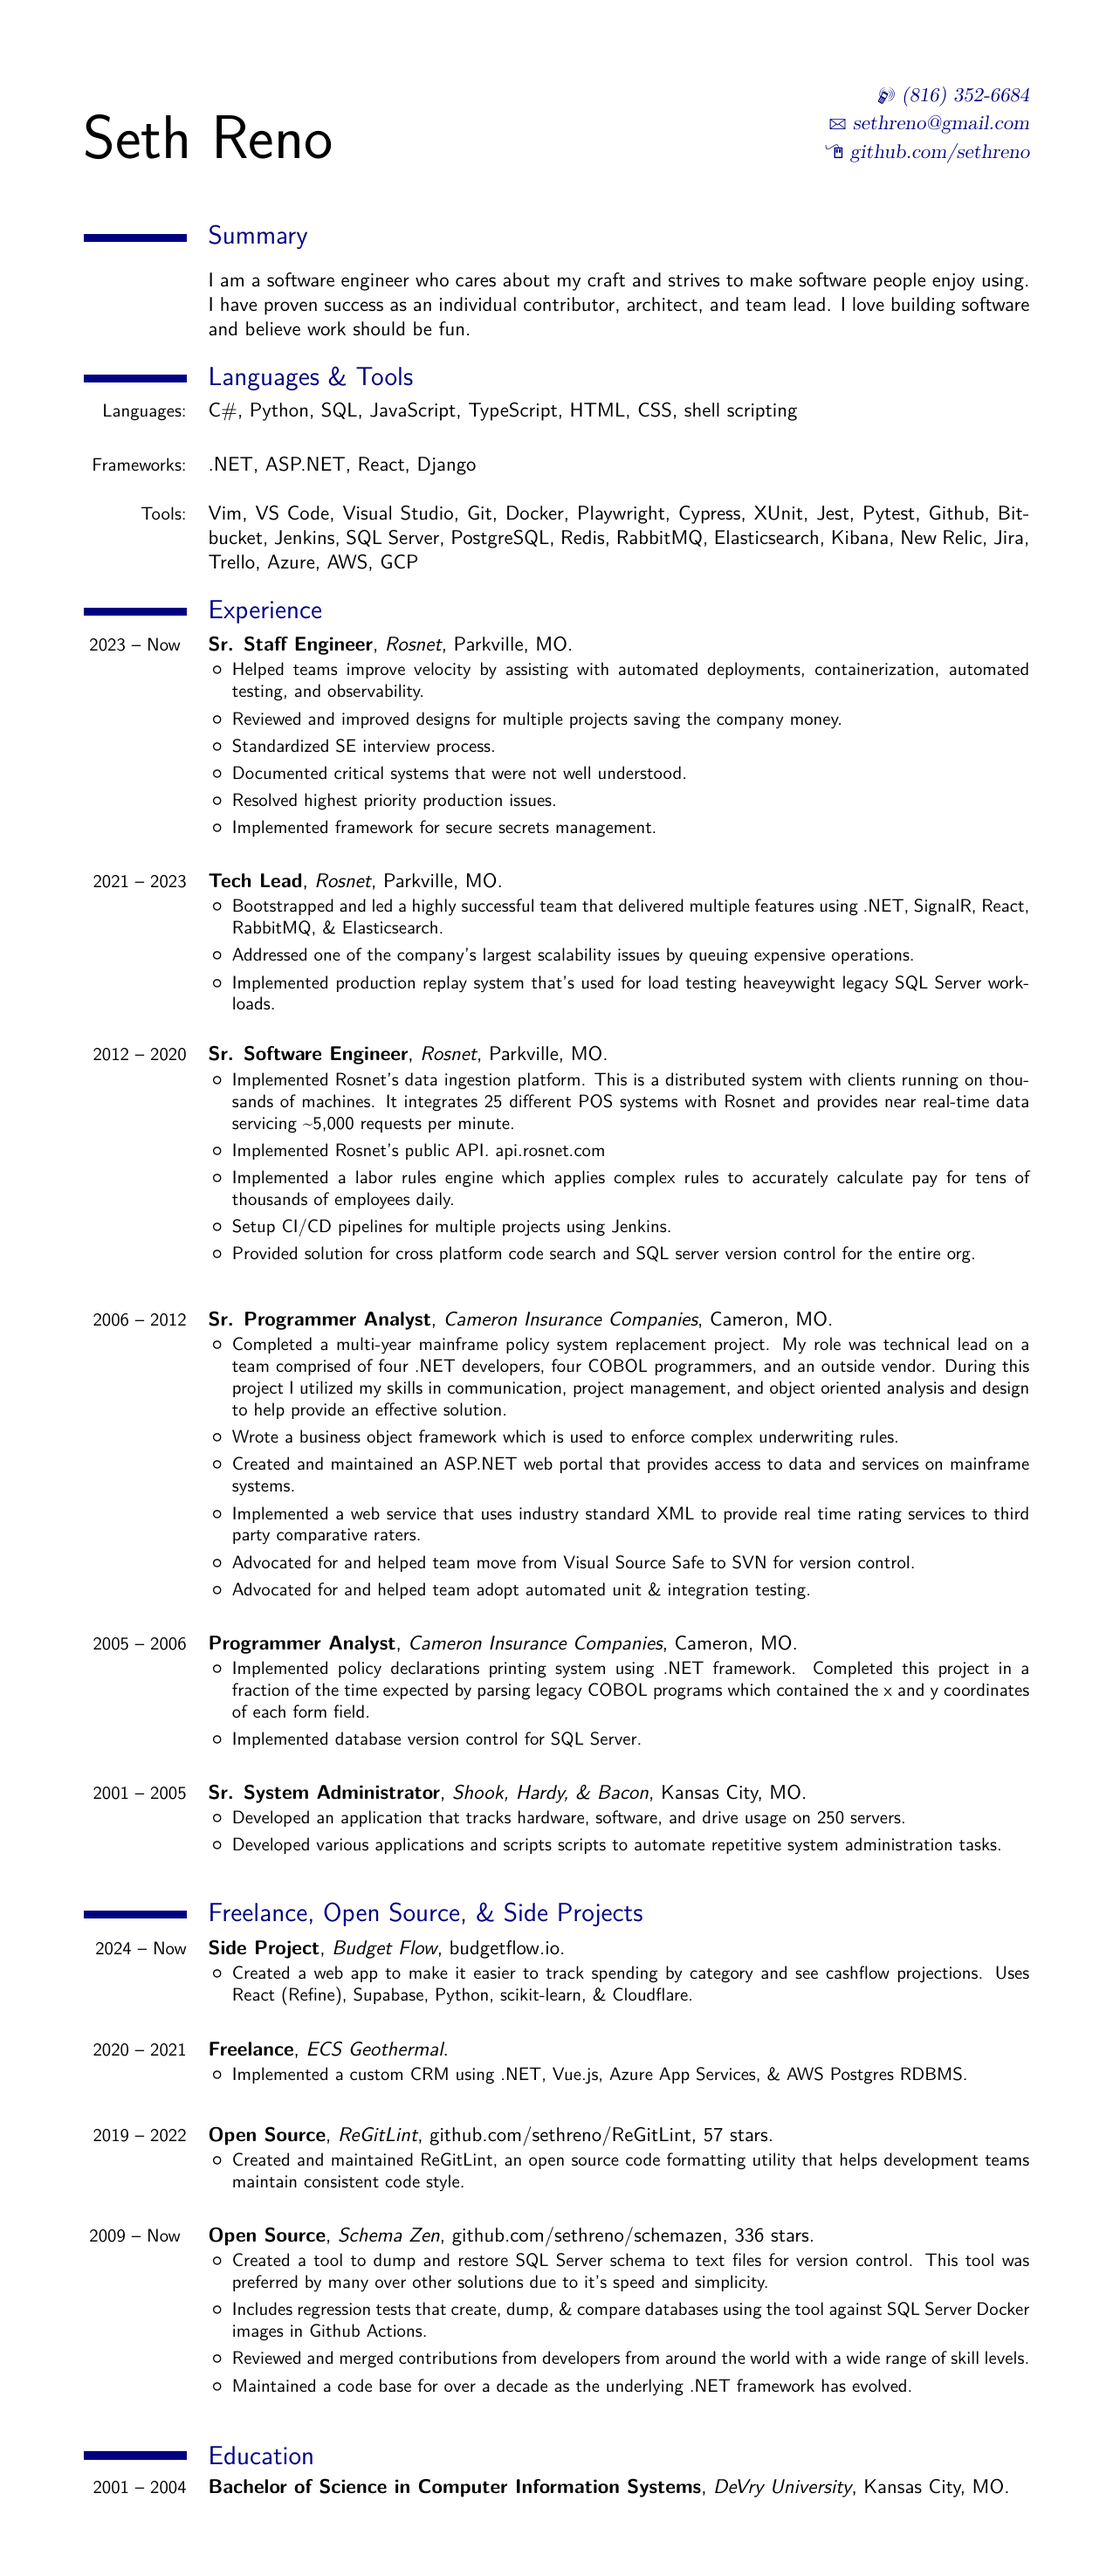
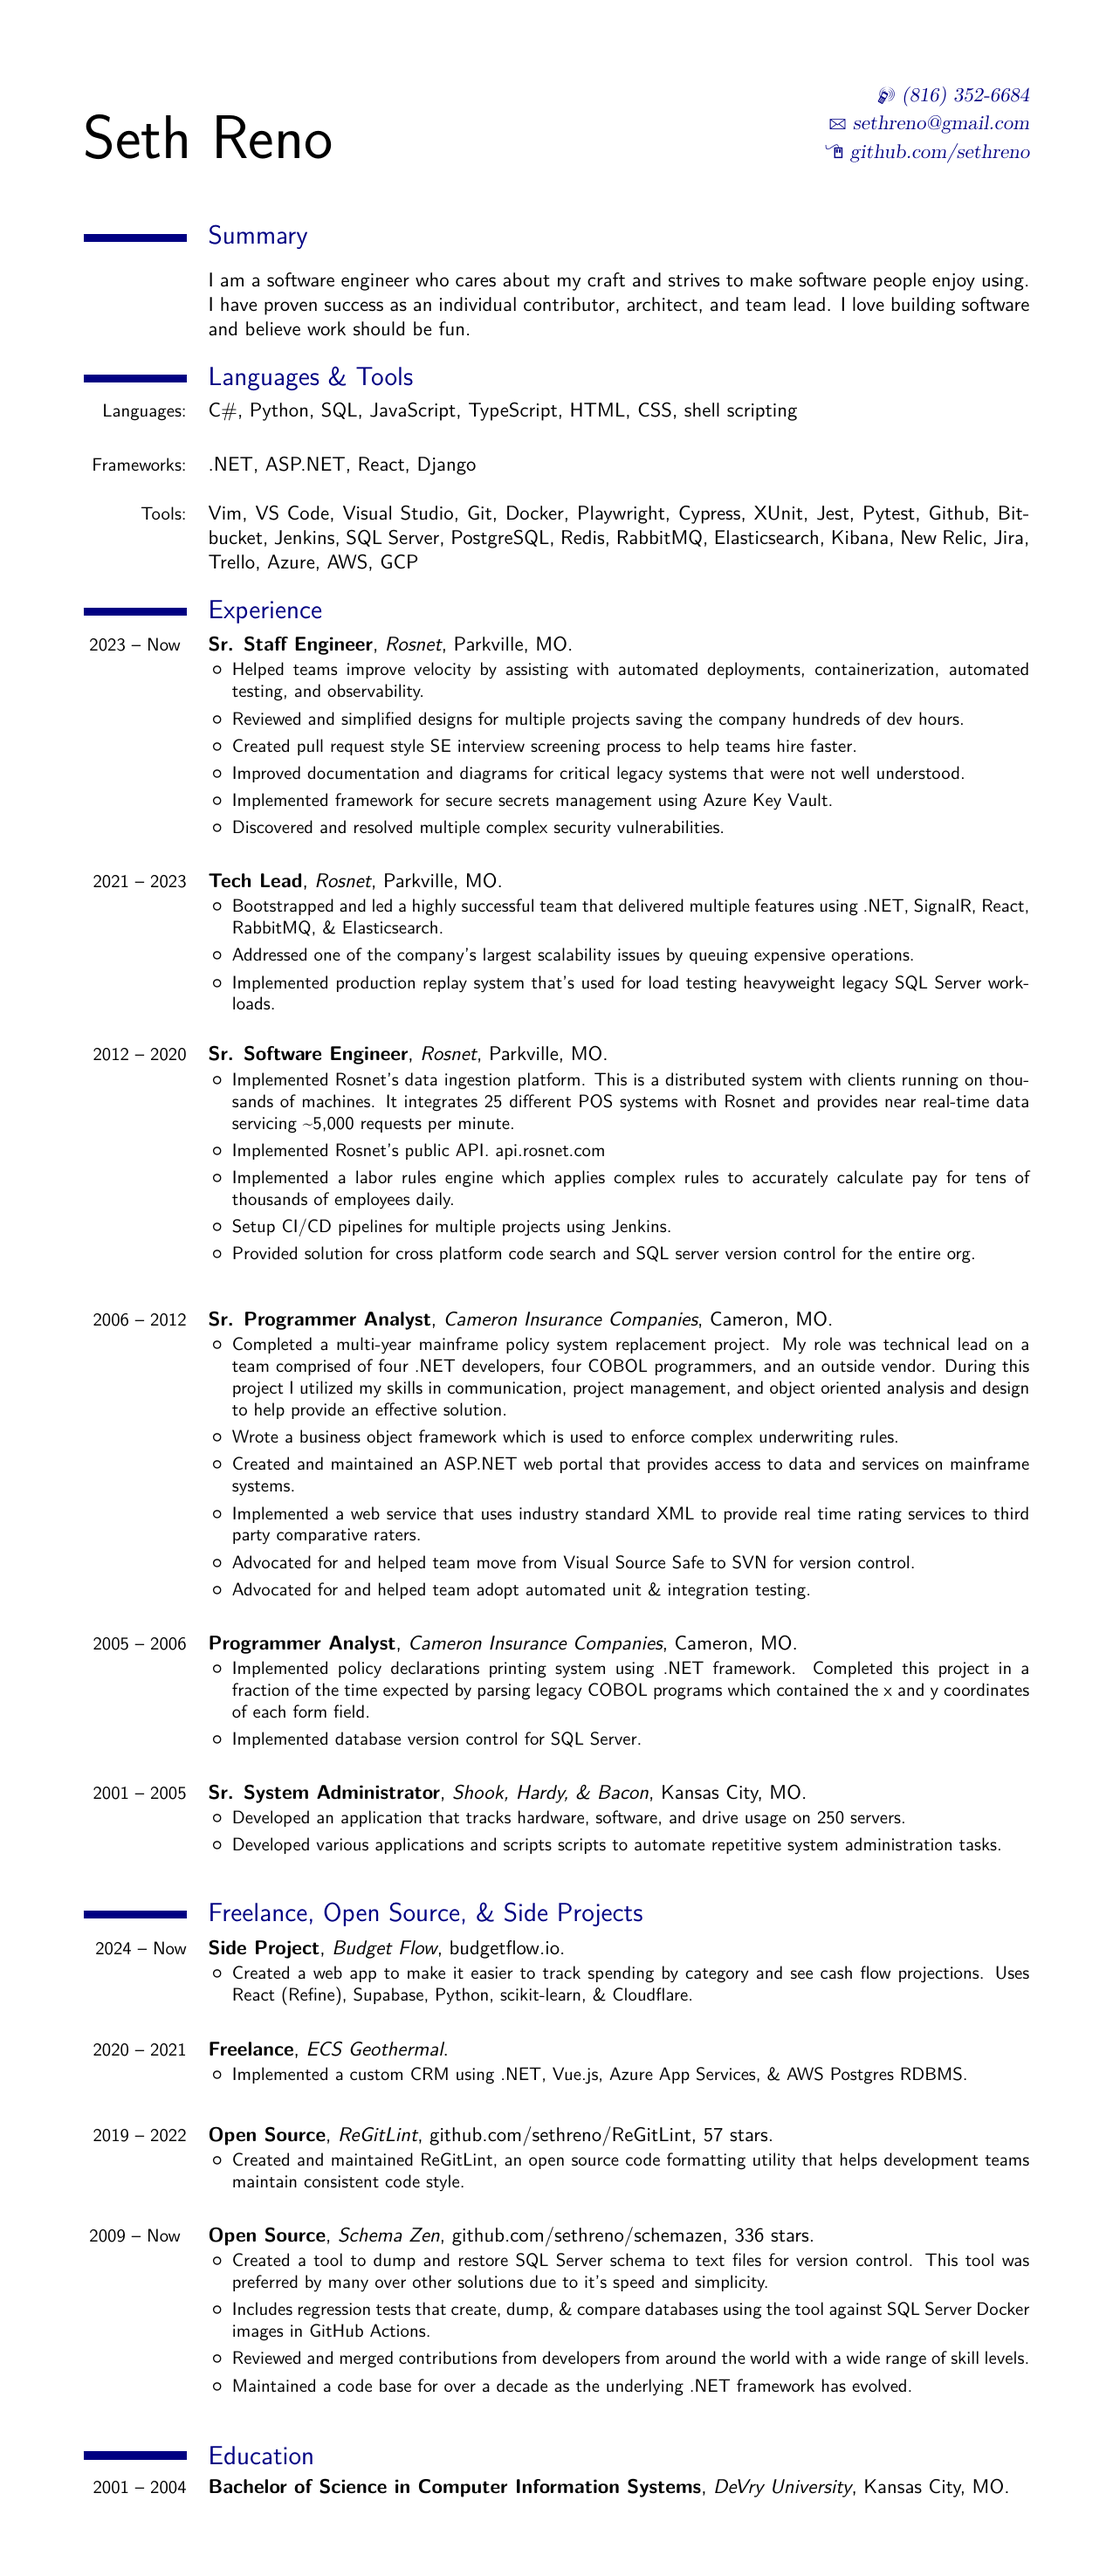
Tweak staff experience

Changed region(s): [[0.2141, 0.2807, 0.7647, 0.3431]]

diff --git a/src/resume.tex b/src/resume.tex
@@ -79,18 +79,23 @@ fun.
 		\begin{itemize}
 			\item
 				Helped teams improve velocity by assisting with automated
-				deployments, containerization, automated testing, and observability.
+				deployments, containerization, automated testing, and
+				observability.
 			\item
-				Reviewed and improved designs for multiple projects saving the
-				company money.
+				Reviewed and simplified designs for multiple projects saving the
+				company hundreds of dev hours.
 			\item
-				Standardized SE interview process.
+				Created pull request style SE interview screening process to
+				help teams hire faster.
 			\item
-				Documented critical systems that were not well understood.
+				Improved documentation and diagrams for critical legacy systems
+				that were not well understood.
 			\item
-				Resolved highest priority production issues.
+				Implemented framework for secure secrets management using Azure
+				Key Vault.
 			\item
-				Implemented framework for secure secrets management.
+				Discovered and resolved multiple complex security
+				vulnerabilities.
 		\end{itemize}
 }
 \linebreak
@@ -107,7 +112,7 @@ fun.
 				queuing expensive operations.
 			\item
 				Implemented production replay system that's used for load
-				testing heaveywight legacy SQL Server workloads.
+				testing heavyweight legacy SQL Server workloads.
 		\end{itemize}
 }
 \linebreak
@@ -200,7 +205,7 @@ fun.
 		\begin{itemize}
 			\item 
 				Created a web app to make it easier to track spending by
-				category and see cashflow projections. Uses React (Refine),
+				category and see cash flow projections. Uses React (Refine),
 				Supabase, Python, scikit-learn, \& Cloudflare.
 		\end{itemize}
 }
@@ -237,7 +242,7 @@ fun.
 			\item 
 				Includes regression tests that create, dump, \& compare
 				databases using the tool against SQL Server Docker images in
-				Github Actions.
+				GitHub Actions.
 			\item 
 				Reviewed and merged contributions from developers from around the world
 				with a wide range of skill levels.
